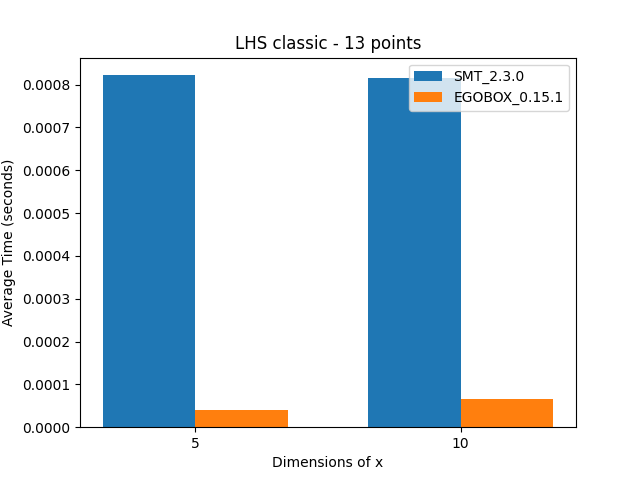
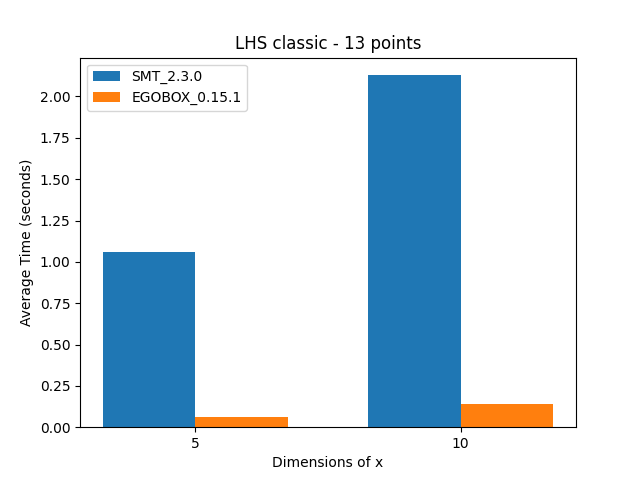
add all option by default if no option is given

diff --git a/benchmark.py b/benchmark.py
@@ -6,45 +6,45 @@ import time
 from smt.sampling_methods import LHS
 import egobox as egx
 
-type_lhs = {
+# DIMENSIONS = [5, 10, 20, 100, 200, 500]
+DIMENSIONS = [5, 10]
+NB_POINTS = [10, 13, 15]
+# NB_POINTS = [10, 50, 100, 250, 500, 1000]
+NB_ITER = 20
+SMT_VERSION = "SMT_2.3.0"
+EGOBOX_VERSION = "EGOBOX_0.15.1"
+
+LHS_OPTION_NAMES = ["optimized", "classic", "centered", "maximin", "centered_maximin"]
+
+SMT_LHS_OPTIONS = {
     "classic": "c",
-    "opti": "ese",
+    "optimized": "ese",
     "centered": "center",
     "maximin": "maximin",
     "centered_maximin": "centermaximin",
 }
-type_ego = {
+EGOBOX_LHS_OPTIONS = {
     "classic": egx.Sampling.LHS_CLASSIC,
-    "opti": "",
+    "optimized": egx.Sampling.LHS,
     "centered": egx.Sampling.LHS_CENTERED,
     "maximin": egx.Sampling.LHS_MAXIMIN,
     "centered_maximin": egx.Sampling.LHS_CENTERED_MAXIMIN,
 }
 
 
-def smt_lhs(xlimits, num_points, args):
-    sampling = LHS(xlimits=xlimits, criterion=type_lhs[args.lhs])
+def smt_lhs(xlimits, num_points, lhs_opt):
+    sampling = LHS(xlimits=xlimits, criterion=SMT_LHS_OPTIONS[lhs_opt])
     sampling(num_points)
 
 
-def egobox_lhs(xlimits, num_points, args):
+def egobox_lhs(xlimits, num_points, lhs_opt):
     xspecs = egx.to_specs(xlimits)
-    if args.lhs == "opti":
-        egx.lhs(xspecs, num_points)
-    else:
-        egx.sampling(type_ego[args.lhs], xspecs, num_points)
-
-
-# DIMENSIONS = [5, 10, 20, 100, 200, 500]
-DIMENSIONS = [5, 10]
-NB_POINTS = [10, 13, 15]
-# NB_POINTS = [10, 50, 100, 250, 500, 1000]
-NB_ITER = 20
+    egx.sampling(EGOBOX_LHS_OPTIONS[lhs_opt], xspecs, num_points)
 
 
 start = time.time()
-ALGOS = {}
-LIBRARIES = ["SMT_2.3.0", "EGOBOX_0.15.1"]
+ALGOS = {SMT_VERSION: smt_lhs, EGOBOX_VERSION: egobox_lhs}
+LIBRARIES = [SMT_VERSION, EGOBOX_VERSION]
 
 
 def parse_arguments():
@@ -53,14 +53,14 @@ def parse_arguments():
     )
     parser.add_argument(
         "--lhs",
-        choices=["opti", "classic", "centered", "maximin", "centered_maximin", "all"],
+        choices=LHS_OPTION_NAMES + ["all"],
         default="all",
         help="Specify the choice of the type of lhs",
     )
     return parser.parse_args()
 
 
-def run_benchmark(LIBRARIES, ALGOS):
+def run_benchmark(lhs_option):
     result = []
     for lib in LIBRARIES:
         for dim in DIMENSIONS:
@@ -70,7 +70,7 @@ def run_benchmark(LIBRARIES, ALGOS):
                     f"Running benchmark with {lib} {args.lhs} for {xlimits.shape} and {num_points} points"
                 )
                 time = timeit.timeit(
-                    lambda: ALGOS[lib](xlimits, num_points, args), number=NB_ITER
+                    lambda: ALGOS[lib](xlimits, num_points, lhs_option), number=NB_ITER
                 )
                 res = {
                     "lib": lib,
@@ -96,14 +96,12 @@ def write_to_csv(csv_filename, result):
 if __name__ == "__main__":
     args = parse_arguments()
     if args.lhs == "all":
-        for lhs_type in type_lhs.keys():
+        for lhs_type in LHS_OPTION_NAMES:
             csv_filename = f"results_{lhs_type}.csv"
-            ALGOS = {"SMT_2.3.0": smt_lhs, "EGOBOX_0.15.1": egobox_lhs}
-            write_to_csv(csv_filename, run_benchmark(LIBRARIES, ALGOS))
+            write_to_csv(csv_filename, run_benchmark(lhs_type))
 
     else:
         csv_filename = f"results_{args.lhs}.csv"
-        ALGOS = {"SMT_2.3.0": smt_lhs, "EGOBOX_0.15.1": egobox_lhs}
-        write_to_csv(csv_filename, run_benchmark(LIBRARIES, ALGOS))
+        write_to_csv(csv_filename, run_benchmark(args.lhs))
 
     print(f"{time.time() - start} seconds")

diff --git a/diagram_creator.py b/diagram_creator.py
@@ -3,15 +3,17 @@ import csv
 import matplotlib.pyplot as plt
 import numpy as np
 
-
-data = {"SMT_2.3.0": {}, "EGOBOX_0.15.1": {}}
+SMT_VERSION = "SMT_2.3.0"
+EGOBOX_VERSION = "EGOBOX_0.15.1"
+data = {SMT_VERSION: {}, EGOBOX_VERSION: {}}
 # NB_POINTS = [10, 50, 100, 250, 500, 1000]
 NB_POINTS = [10, 13, 15]
-file = False
+FILE = False
+LHS_OPTION_NAMES = ["optimized", "classic", "centered", "maximin", "centered_maximin"]
 
 
 def sort_dimensions():
-    matrix_dimensions = list(set(data["SMT_2.3.0"].keys()))
+    matrix_dimensions = list(set(data[SMT_VERSION].keys()))
     nb_matrix = [int(dim) for dim in matrix_dimensions]
     sort_matrix = sorted(nb_matrix)
     sort_matrix_str = [str(number) for number in sort_matrix]
@@ -19,12 +21,12 @@ def sort_dimensions():
     return sort_matrix_str
 
 
-def create_chart(matrix_dimensions, file, lhs):
+def create_chart(matrix_dimensions, lhs_option):
     for npoints in NB_POINTS:
         fig, ax = plt.subplots()
         bar_width = 0.35
 
-        for i, program in enumerate(["SMT_2.3.0", "EGOBOX_0.15.1"]):
+        for i, program in enumerate([SMT_VERSION, EGOBOX_VERSION]):
             matrix = [data[program][matrix][npoints] for matrix in matrix_dimensions]
 
             ax.bar(
@@ -38,13 +40,10 @@ def create_chart(matrix_dimensions, file, lhs):
         ax.set_xticklabels(matrix_dimensions)
         ax.set_xlabel("Dimensions of x")
         ax.set_ylabel("Average Time (seconds)")
-        if file:
-            ax.set_title(f"kriging - {npoints} points")
-        else:
-            ax.set_title(f"LHS {lhs} - {npoints} points")
+        ax.set_title(f"LHS {lhs_option} - {npoints} points")
         ax.legend()
 
-        plt.savefig(f"results/lhs_{lhs}/LHS_{lhs}_{npoints}_points.png")
+        plt.savefig(f"results/lhs_{lhs_option}/LHS_{lhs_option}_{npoints}_points.png")
 
 
 def read_from_csv(CSV_filename):
@@ -65,8 +64,15 @@ def read_from_csv(CSV_filename):
 
 if __name__ == "__main__":
     args = parse_arguments()
-    csv_filename = f"results_{args.lhs}.csv"
-    print(args.lhs)
+    if args.lhs == "all":
+        for lhs_type in LHS_OPTION_NAMES:
+            csv_filename = f"results_{lhs_type}.csv"
+            print(lhs_type)
+            read_from_csv(csv_filename)
+            create_chart(sort_dimensions(), lhs_type)
 
-    read_from_csv(csv_filename)
-    create_chart(sort_dimensions(), file, args.lhs)
+    else:
+        csv_filename = f"results_{args.lhs}.csv"
+        print(args.lhs)
+        read_from_csv(csv_filename)
+        create_chart(sort_dimensions(), args.lhs)
